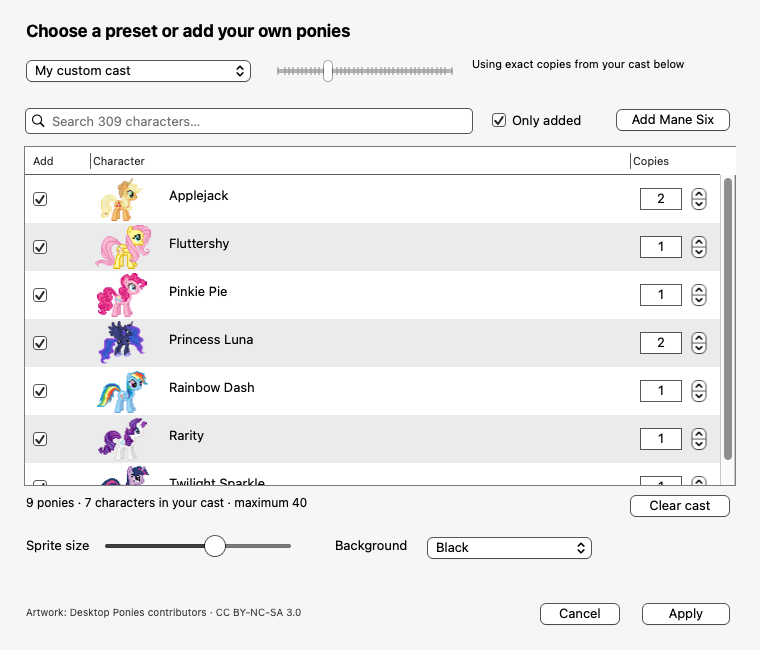
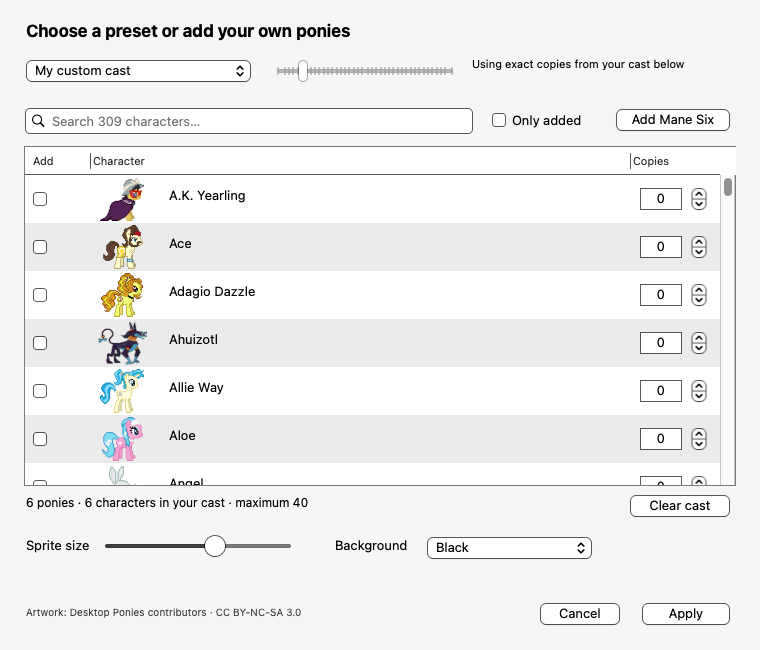
Disable character picker for presets and release notarized version 1.7

diff --git a/Installer/Resources/Welcome.html b/Installer/Resources/Welcome.html
@@ -1,1 +1,1 @@
-<!DOCTYPE html><html><head><meta charset="utf-8"><style>body { font: 13px -apple-system, Helvetica, sans-serif; color: #242424; padding: 12px; } h1 { font-size: 23px; } p, li { line-height: 1.5; }</style></head><body><h1>Desktop Ponies 1.6</h1><p>Bring animated ponies to your Mac’s screensaver.</p><ul><li>309 characters with a searchable cast picker</li><li>Mane Six preset: exactly six ponies, one of each character</li><li>Custom casts and random selections, with up to 40 ponies</li></ul><p>Installs for your account in <b>Library/Screen Savers</b>. Your saved cast, sprite size, and background settings are preserved.</p><p>Requires macOS 11 or later. Supports Apple Silicon and Intel Macs.</p><p>Artwork: Desktop Ponies contributors · CC BY-NC-SA 3.0 · Noncommercial use.</p></body></html>
+<!DOCTYPE html><html><head><meta charset="utf-8"><style>body { font: 13px -apple-system, Helvetica, sans-serif; color: #242424; padding: 12px; } h1 { font-size: 23px; } p, li { line-height: 1.5; }</style></head><body><h1>Desktop Ponies 1.7</h1><p>Bring animated ponies to your Mac’s screensaver.</p><ul><li>309 characters with a searchable cast picker</li><li>Mane Six preset: exactly six ponies, one of each character</li><li>Custom casts and random selections, with up to 40 ponies</li></ul><p>Installs for your account in <b>Library/Screen Savers</b>. Your saved cast, sprite size, and background settings are preserved.</p><p>Requires macOS 11 or later. Supports Apple Silicon and Intel Macs.</p><p>Artwork: Desktop Ponies contributors · CC BY-NC-SA 3.0 · Noncommercial use.</p></body></html>

diff --git a/Installer/Resources/Conclusion.html b/Installer/Resources/Conclusion.html
@@ -1,1 +1,1 @@
-<!DOCTYPE html><html><head><meta charset="utf-8"><style>body { font: 13px -apple-system, Helvetica, sans-serif; color: #242424; padding: 12px; } h1 { font-size: 23px; } p, li { line-height: 1.5; }</style></head><body><h1>Your ponies are ready</h1><ol><li>Open <b>System Settings → Screen Saver</b> (System Preferences on older macOS versions).</li><li>Select <b>Desktop Ponies 1.6</b>. If it is missing, close and reopen Settings.</li><li>Open <b>Options</b> to choose your cast, then click <b>Apply</b>.</li><li>Start the preview to enjoy your ponies.</li></ol><p>Older Desktop Ponies entries can remain installed. Select version 1.5 to use this update.</p><p>To uninstall, remove <b>Desktop Ponies 1.6.saver</b> from your account’s <b>Library/Screen Savers</b> folder.</p></body></html>
+<!DOCTYPE html><html><head><meta charset="utf-8"><style>body { font: 13px -apple-system, Helvetica, sans-serif; color: #242424; padding: 12px; } h1 { font-size: 23px; } p, li { line-height: 1.5; }</style></head><body><h1>Your ponies are ready</h1><ol><li>Open <b>System Settings → Screen Saver</b> (System Preferences on older macOS versions).</li><li>Select <b>Desktop Ponies 1.7</b>. If it is missing, close and reopen Settings.</li><li>Open <b>Options</b> to choose your cast, then click <b>Apply</b>.</li><li>Start the preview to enjoy your ponies.</li></ol><p>Older Desktop Ponies entries can remain installed. Select version 1.5 to use this update.</p><p>To uninstall, remove <b>Desktop Ponies 1.7.saver</b> from your account’s <b>Library/Screen Savers</b> folder.</p></body></html>

diff --git a/Source/PoniesView.m b/Source/PoniesView.m
@@ -2,7 +2,7 @@
 #import <ImageIO/ImageIO.h>
 
 static double RandomUnit(void) { return arc4random_uniform(1000000)/1000000.0; }
-@interface DP16Animation : NSObject
+@interface DP17Animation : NSObject
 @property NSArray<NSImage *> *frames;
 @property NSArray<NSNumber *> *ends;
 @property double duration;
@@ -10,7 +10,7 @@ static double RandomUnit(void) { return arc4random_uniform(1000000)/1000000.0; }
 - (instancetype)initWithPath:(NSString *)path;
 - (NSImage *)frameAt:(double)time once:(BOOL)once;
 @end
-@implementation DP16Animation
+@implementation DP17Animation
 - (instancetype)initWithPath:(NSString *)path {
     if (!(self=[super init])) return nil;
     CGImageSourceRef source=CGImageSourceCreateWithURL((__bridge CFURLRef)[NSURL fileURLWithPath:path],NULL);
@@ -34,42 +34,42 @@ static double RandomUnit(void) { return arc4random_uniform(1000000)/1000000.0; }
 }
 @end
 // Anchors in pony.ini are measured from the image's top-left corner.
-static NSPoint DPImageCenter(DP16Animation *animation, NSArray *center) {
+static NSPoint DPImageCenter(DP17Animation *animation, NSArray *center) {
     double x=[center[0] doubleValue], y=[center[1] doubleValue];
     if (x==0 && y==0) return NSMakePoint(animation.size.width/2,animation.size.height/2);
     return NSMakePoint(x,y);
 }
 
-@interface DP16Actor : NSObject
+@interface DP17Actor : NSObject
 @property NSDictionary *pony, *behavior;
-@property DP16Animation *right, *left;
+@property DP17Animation *right, *left;
 @property double x,y,vx,vy,remaining,elapsed,edgeDwell;
 @property BOOL facingRight;
 @end
-@implementation DP16Actor @end
+@implementation DP17Actor @end
 
-@interface DP16OptionsContentView : NSView
+@interface DP17OptionsContentView : NSView
 @end
-@implementation DP16OptionsContentView
+@implementation DP17OptionsContentView
 - (void)drawRect:(NSRect)dirty { [NSColor.windowBackgroundColor setFill]; NSRectFill(self.bounds); [super drawRect:dirty]; }
 @end
 
-@interface DP16PickerButton : NSButton
+@interface DP17PickerButton : NSButton
 @property NSString *ponyID;
 @end
-@implementation DP16PickerButton @end
-@interface DP16PickerStepper : NSStepper
+@implementation DP17PickerButton @end
+@interface DP17PickerStepper : NSStepper
 @property NSString *ponyID;
 @end
-@implementation DP16PickerStepper @end
-@interface DP16QuantityField : NSTextField
+@implementation DP17PickerStepper @end
+@interface DP17QuantityField : NSTextField
 @property NSString *ponyID;
 @end
-@implementation DP16QuantityField @end
+@implementation DP17QuantityField @end
 
-@interface DesktopPoniesView16 : ScreenSaverView <NSTableViewDataSource, NSTableViewDelegate, NSTextFieldDelegate, NSSearchFieldDelegate>
+@interface DesktopPoniesView17 : ScreenSaverView <NSTableViewDataSource, NSTableViewDelegate, NSTextFieldDelegate, NSSearchFieldDelegate>
 @property NSArray *catalog;
-@property NSMutableArray<DP16Actor *> *actors;
+@property NSMutableArray<DP17Actor *> *actors;
 @property NSCache *images;
 @property ScreenSaverDefaults *settings;
 @property NSString *resourceRoot;
@@ -82,12 +82,12 @@ static NSPoint DPImageCenter(DP16Animation *animation, NSArray *center) {
 @property NSArray *filteredCatalog;
 @property NSTableView *pickerTable;
 @property NSSearchField *searchField;
-@property NSButton *onlyAdded, *applyButton;
+@property NSButton *onlyAdded, *applyButton, *maneSixButton, *clearCastButton;
 @property NSTextField *summaryLabel, *randomLabel, *emptyLabel;
 @property NSCache *thumbnails;
 - (void)repopulate;
 @end
-@implementation DesktopPoniesView16
+@implementation DesktopPoniesView17
 - (instancetype)initWithFrame:(NSRect)frame isPreview:(BOOL)preview {
     if (!(self=[super initWithFrame:frame isPreview:preview])) return nil;
     self.animationTimeInterval=1.0/30.0;
@@ -104,18 +104,18 @@ static NSPoint DPImageCenter(DP16Animation *animation, NSArray *center) {
 - (double)spriteScale {
     return MAX(.2,MIN(3.0,[self.settings doubleForKey:@"scale"])) * (self.isPreview ? MAX(.15,MIN(1.0,NSWidth(self.bounds)/1440.0)) : 1.0);
 }
-- (DP16Animation *)image:(NSString *)relative {
-    DP16Animation *a=[self.images objectForKey:relative];
-    if (!a) { a=[[DP16Animation alloc] initWithPath:[self.resourceRoot stringByAppendingPathComponent:relative]]; if (a) [self.images setObject:a forKey:relative]; }
+- (DP17Animation *)image:(NSString *)relative {
+    DP17Animation *a=[self.images objectForKey:relative];
+    if (!a) { a=[[DP17Animation alloc] initWithPath:[self.resourceRoot stringByAppendingPathComponent:relative]]; if (a) [self.images setObject:a forKey:relative]; }
     return a;
 }
-- (void)chooseBehavior:(DP16Actor *)p {
+- (void)chooseBehavior:(DP17Actor *)p {
     NSArray *bs=p.pony[@"behaviors"]; double total=0; for (NSDictionary *b in bs) total+=[b[@"weight"] doubleValue];
     double pick=RandomUnit()*total; NSDictionary *chosen=bs.lastObject;
     for (NSDictionary *b in bs) { pick-=[b[@"weight"] doubleValue]; if (pick<=0) { chosen=b; break; } }
     [self beginBehavior:chosen actor:p];
 }
-- (void)beginBehavior:(NSDictionary *)chosen actor:(DP16Actor *)p {
+- (void)beginBehavior:(NSDictionary *)chosen actor:(DP17Actor *)p {
     p.behavior=chosen; p.right=[self image:chosen[@"right"]]; p.left=[self image:chosen[@"left"]];
     p.elapsed=0; p.remaining=[chosen[@"min"] doubleValue]+RandomUnit()*MAX(0,[chosen[@"max"] doubleValue]-[chosen[@"min"] doubleValue]);
     p.facingRight=RandomUnit()>.5;
@@ -131,7 +131,7 @@ static NSPoint DPImageCenter(DP16Animation *animation, NSArray *center) {
     if (fabs(p.vx)<1e-8) p.vx=0;
     if (fabs(p.vy)<1e-8) p.vy=0;
 }
-- (void)releaseActor:(DP16Actor *)p directionX:(NSInteger)dx directionY:(NSInteger)dy {
+- (void)releaseActor:(DP17Actor *)p directionX:(NSInteger)dx directionY:(NSInteger)dy {
     NSMutableArray *candidates=[NSMutableArray array]; double total=0;
     for (NSDictionary *b in p.pony[@"behaviors"]) {
         NSString *mode=b[@"mode"];
@@ -180,7 +180,7 @@ static NSPoint DPImageCenter(DP16Animation *animation, NSArray *center) {
         }
     }
     for (NSDictionary *pony in cast) {
-        DP16Actor *p=[DP16Actor new]; p.pony=pony;
+        DP17Actor *p=[DP17Actor new]; p.pony=pony;
         p.x=NSWidth(self.bounds)*(.1+RandomUnit()*.8); p.y=NSHeight(self.bounds)*(.1+RandomUnit()*.8); [self chooseBehavior:p]; [self.actors addObject:p];
     }
     self.loadedSettings=[self settingsSnapshot];
@@ -207,7 +207,7 @@ static NSPoint DPImageCenter(DP16Animation *animation, NSArray *center) {
     if (now-self.lastSettingsCheck>=1) [self reloadSettings:NO];
     double dt=self.lastTick ? MIN(.1,MAX(0,now-self.lastTick)) : self.animationTimeInterval; self.lastTick=now;
     double scale=[self spriteScale];
-    for (DP16Actor *p in self.actors) {
+    for (DP17Actor *p in self.actors) {
         p.elapsed+=dt; p.remaining-=dt; if (p.remaining<=0) [self chooseBehavior:p];
         p.x+=p.vx*dt*scale; p.y+=p.vy*dt*scale;
         // Use the union of both facing poses so turning does not move the wall.
@@ -253,9 +253,9 @@ static NSPoint DPImageCenter(DP16Animation *animation, NSArray *center) {
     }
     [NSGraphicsContext currentContext].imageInterpolation=NSImageInterpolationNone;
     double scale=[self spriteScale];
-    NSArray *sorted=[self.actors sortedArrayUsingComparator:^NSComparisonResult(DP16Actor *a, DP16Actor *b) { return a.y>b.y?NSOrderedAscending:(a.y<b.y?NSOrderedDescending:NSOrderedSame); }];
-    for (DP16Actor *p in sorted) {
-        DP16Animation *a=p.facingRight?p.right:p.left; if (!a) continue;
+    NSArray *sorted=[self.actors sortedArrayUsingComparator:^NSComparisonResult(DP17Actor *a, DP17Actor *b) { return a.y>b.y?NSOrderedAscending:(a.y<b.y?NSOrderedDescending:NSOrderedSame); }];
+    for (DP17Actor *p in sorted) {
+        DP17Animation *a=p.facingRight?p.right:p.left; if (!a) continue;
         NSPoint center=DPImageCenter(a,p.behavior[p.facingRight?@"rc":@"lc"]);
         NSRect rect=NSMakeRect(p.x-center.x*scale,p.y-(a.size.height-center.y)*scale,a.size.width*scale,a.size.height*scale);
         [[a frameAt:p.elapsed once:[p.behavior[@"once"] boolValue]] drawInRect:rect fromRect:NSZeroRect operation:NSCompositingOperationSourceOver fraction:1 respectFlipped:NO hints:nil];
@@ -272,13 +272,19 @@ static NSPoint DPImageCenter(DP16Animation *animation, NSArray *center) {
         BOOL matches=!query.length || [p[@"id"] rangeOfString:query options:NSCaseInsensitiveSearch|NSDiacriticInsensitiveSearch].location!=NSNotFound || [p[@"name"] rangeOfString:query options:NSCaseInsensitiveSearch|NSDiacriticInsensitiveSearch].location!=NSNotFound;
         return matches && (self.onlyAdded.state!=NSControlStateValueOn || [self.draftCounts[p[@"id"]] integerValue]>0);
     }]];
-    [self.pickerTable reloadData];
     BOOL custom=self.castPopup.indexOfSelectedItem==2;
+    self.pickerTable.enabled=custom;
+    self.pickerTable.alphaValue=custom?1.0:0.45;
+    self.searchField.enabled=custom;
+    self.onlyAdded.enabled=custom;
+    self.maneSixButton.enabled=custom;
+    self.clearCastButton.enabled=custom;
+    [self.pickerTable reloadData];
     BOOL mane=self.castPopup.indexOfSelectedItem==0;
     if (mane) self.countSlider.doubleValue=6;
     self.countSlider.enabled=self.castPopup.indexOfSelectedItem==1;
     NSInteger total=[self draftTotal];
-    self.summaryLabel.stringValue=[NSString stringWithFormat:@"%ld ponies · %lu characters in your cast · maximum 40",(long)total,(unsigned long)self.draftCounts.count];
+    self.summaryLabel.stringValue=custom?[NSString stringWithFormat:@"%ld ponies · %lu characters in your cast · maximum 40",(long)total,(unsigned long)self.draftCounts.count]:@"Choose My custom cast to edit individual characters. Your cast is saved.";
     self.randomLabel.stringValue=mane?@"6 ponies · one of each Mane Six character":custom?@"Using exact copies from your cast below":[NSString stringWithFormat:@"%ld ponies chosen from this preset",(long)llround(self.countSlider.doubleValue)];
     self.applyButton.enabled=!custom || total>0;
     self.emptyLabel.hidden=self.filteredCatalog.count>0;
@@ -296,8 +302,9 @@ static NSPoint DPImageCenter(DP16Animation *animation, NSArray *center) {
 - (NSInteger)numberOfRowsInTableView:(NSTableView *)tableView { return self.filteredCatalog.count; }
 - (NSView *)tableView:(NSTableView *)tableView viewForTableColumn:(NSTableColumn *)column row:(NSInteger)row {
     NSDictionary *pony=self.filteredCatalog[row]; NSString *identifier=pony[@"id"]; NSInteger quantity=[self.draftCounts[identifier] integerValue];
+    BOOL custom=self.castPopup.indexOfSelectedItem==2;
     if ([column.identifier isEqual:@"add"]) {
-        DP16PickerButton *check=[[DP16PickerButton alloc] initWithFrame:NSMakeRect(0,0,60,48)]; check.title=@""; check.buttonType=NSButtonTypeSwitch; check.state=quantity>0?NSControlStateValueOn:NSControlStateValueOff; check.ponyID=identifier; check.target=self; check.action=@selector(togglePony:); [check setAccessibilityLabel:[@"Add " stringByAppendingString:identifier]]; return check;
+        DP17PickerButton *check=[[DP17PickerButton alloc] initWithFrame:NSMakeRect(0,0,60,48)]; check.title=@""; check.buttonType=NSButtonTypeSwitch; check.state=quantity>0?NSControlStateValueOn:NSControlStateValueOff; check.enabled=custom; check.ponyID=identifier; check.target=self; check.action=@selector(togglePony:); [check setAccessibilityLabel:[@"Add " stringByAppendingString:identifier]]; return check;
     }
     if ([column.identifier isEqual:@"pony"]) {
         NSTableCellView *cell=[[NSTableCellView alloc] initWithFrame:NSMakeRect(0,0,column.width,48)];
@@ -305,9 +312,9 @@ static NSPoint DPImageCenter(DP16Animation *animation, NSArray *center) {
         NSTextField *name=[NSTextField labelWithString:identifier]; name.frame=NSMakeRect(76,14,column.width-82,22); name.font=[NSFont systemFontOfSize:13]; name.lineBreakMode=NSLineBreakByTruncatingTail; name.toolTip=identifier; cell.textField=name; [cell addSubview:name]; return cell;
     }
     NSView *cell=[[NSView alloc] initWithFrame:NSMakeRect(0,0,column.width,48)];
-    DP16QuantityField *field=[[DP16QuantityField alloc] initWithFrame:NSMakeRect(8,12,44,24)]; field.ponyID=identifier; field.integerValue=quantity; field.alignment=NSTextAlignmentCenter; field.delegate=self;
+    DP17QuantityField *field=[[DP17QuantityField alloc] initWithFrame:NSMakeRect(8,12,44,24)]; field.enabled=custom; field.ponyID=identifier; field.integerValue=quantity; field.alignment=NSTextAlignmentCenter; field.delegate=self;
     NSNumberFormatter *formatter=[NSNumberFormatter new]; formatter.numberStyle=NSNumberFormatterDecimalStyle; formatter.allowsFloats=NO; formatter.minimum=@0; formatter.maximum=@40; field.formatter=formatter; [field setAccessibilityLabel:[@"Copies of " stringByAppendingString:identifier]]; [cell addSubview:field];
-    DP16PickerStepper *stepper=[[DP16PickerStepper alloc] initWithFrame:NSMakeRect(58,10,20,28)]; stepper.ponyID=identifier; stepper.minValue=0; stepper.maxValue=40; stepper.integerValue=quantity; stepper.valueWraps=NO; stepper.target=self; stepper.action=@selector(stepQuantity:); [stepper setAccessibilityLabel:[@"Copies of " stringByAppendingString:identifier]]; [cell addSubview:stepper]; return cell;
+    DP17PickerStepper *stepper=[[DP17PickerStepper alloc] initWithFrame:NSMakeRect(58,10,20,28)]; stepper.enabled=custom; stepper.ponyID=identifier; stepper.minValue=0; stepper.maxValue=40; stepper.integerValue=quantity; stepper.valueWraps=NO; stepper.target=self; stepper.action=@selector(stepQuantity:); [stepper setAccessibilityLabel:[@"Copies of " stringByAppendingString:identifier]]; [cell addSubview:stepper]; return cell;
 }
 - (void)setQuantity:(NSInteger)quantity forPony:(NSString *)identifier {
     // Count limits apply across the entire cast, including characters hidden by search.
@@ -318,10 +325,10 @@ static NSPoint DPImageCenter(DP16Animation *animation, NSArray *center) {
     [self.castPopup selectItemAtIndex:2]; [self refreshPicker];
     if (quantity>allowed) self.summaryLabel.stringValue=@"Cast limit reached: 40 ponies. Remove a copy before adding more.";
 }
-- (void)togglePony:(DP16PickerButton *)sender { [self.sheet makeFirstResponder:nil]; [self setQuantity:sender.state==NSControlStateValueOn?1:0 forPony:sender.ponyID]; }
-- (void)stepQuantity:(DP16PickerStepper *)sender { [self.sheet makeFirstResponder:nil]; [self setQuantity:sender.integerValue forPony:sender.ponyID]; }
+- (void)togglePony:(DP17PickerButton *)sender { if (self.castPopup.indexOfSelectedItem!=2) return; [self.sheet makeFirstResponder:nil]; [self setQuantity:sender.state==NSControlStateValueOn?1:0 forPony:sender.ponyID]; }
+- (void)stepQuantity:(DP17PickerStepper *)sender { if (self.castPopup.indexOfSelectedItem!=2) return; [self.sheet makeFirstResponder:nil]; [self setQuantity:sender.integerValue forPony:sender.ponyID]; }
 - (void)controlTextDidEndEditing:(NSNotification *)notification {
-    if ([notification.object isKindOfClass:DP16QuantityField.class]) { DP16QuantityField *field=notification.object; [self setQuantity:field.integerValue forPony:field.ponyID]; }
+    if (self.castPopup.indexOfSelectedItem==2 && [notification.object isKindOfClass:DP17QuantityField.class]) { DP17QuantityField *field=notification.object; [self setQuantity:field.integerValue forPony:field.ponyID]; }
 }
 - (void)controlTextDidChange:(NSNotification *)notification { if (notification.object==self.searchField) [self refreshPicker]; }
 - (void)pickerFilterChanged:(id)sender { [self.sheet makeFirstResponder:nil]; [self refreshPicker]; }
@@ -342,14 +349,14 @@ static NSPoint DPImageCenter(DP16Animation *animation, NSArray *center) {
 - (NSWindow *)configureSheet {
     [self.settings synchronize];
     if (!self.sheet) {
-        self.sheet=[[NSWindow alloc] initWithContentRect:NSMakeRect(0,0,760,650) styleMask:NSWindowStyleMaskTitled backing:NSBackingStoreBuffered defer:NO]; self.sheet.title=@"Desktop Ponies 1.6 — Build your cast"; self.sheet.contentView=[[DP16OptionsContentView alloc] initWithFrame:NSMakeRect(0,0,760,650)];
+        self.sheet=[[NSWindow alloc] initWithContentRect:NSMakeRect(0,0,760,650) styleMask:NSWindowStyleMaskTitled backing:NSBackingStoreBuffered defer:NO]; self.sheet.title=@"Desktop Ponies 1.7 — Build your cast"; self.sheet.contentView=[[DP17OptionsContentView alloc] initWithFrame:NSMakeRect(0,0,760,650)];
         [self label:@"Choose a preset or add your own ponies" frame:NSMakeRect(24,605,710,24)].font=[NSFont boldSystemFontOfSize:17];
         self.castPopup=[[NSPopUpButton alloc] initWithFrame:NSMakeRect(24,563,230,28) pullsDown:NO]; [self.castPopup addItemsWithTitles:@[@"Mane Six preset",@"Random from all characters",@"My custom cast"]]; self.castPopup.target=self; self.castPopup.action=@selector(pickerFilterChanged:);
         self.countSlider=[NSSlider sliderWithValue:6 minValue:1 maxValue:40 target:self action:@selector(pickerFilterChanged:)]; self.countSlider.frame=NSMakeRect(275,565,180,24); self.countSlider.numberOfTickMarks=40; self.countSlider.allowsTickMarkValuesOnly=YES;
         self.randomLabel=[self label:@"" frame:NSMakeRect(470,561,266,32)]; self.randomLabel.font=[NSFont systemFontOfSize:11]; self.randomLabel.maximumNumberOfLines=2;
         self.searchField=[[NSSearchField alloc] initWithFrame:NSMakeRect(24,515,450,28)]; self.searchField.placeholderString=[NSString stringWithFormat:@"Search %lu characters…",(unsigned long)self.catalog.count]; self.searchField.delegate=self; [self.searchField setAccessibilityLabel:@"Search characters"];
         self.onlyAdded=[NSButton checkboxWithTitle:@"Only added" target:self action:@selector(pickerFilterChanged:)]; self.onlyAdded.frame=NSMakeRect(490,518,115,24);
-        NSButton *mane=[NSButton buttonWithTitle:@"Add Mane Six" target:self action:@selector(maneSixCast:)]; mane.frame=NSMakeRect(610,514,126,30); mane.toolTip=@"Add any missing Mane Six characters while keeping your existing cast.";
+        NSButton *mane=[NSButton buttonWithTitle:@"Add Mane Six" target:self action:@selector(maneSixCast:)]; self.maneSixButton=mane; mane.frame=NSMakeRect(610,514,126,30); mane.toolTip=@"Add any missing Mane Six characters while keeping your existing cast.";
         NSScrollView *scroll=[[NSScrollView alloc] initWithFrame:NSMakeRect(24,164,712,340)]; scroll.borderType=NSBezelBorder; scroll.hasVerticalScroller=YES; scroll.autohidesScrollers=YES;
         self.pickerTable=[[NSTableView alloc] initWithFrame:scroll.bounds]; self.pickerTable.rowHeight=48; self.pickerTable.intercellSpacing=NSMakeSize(0,0); self.pickerTable.usesAlternatingRowBackgroundColors=YES; self.pickerTable.allowsColumnReordering=NO; self.pickerTable.selectionHighlightStyle=NSTableViewSelectionHighlightStyleNone; self.pickerTable.dataSource=self; self.pickerTable.delegate=self;
         NSArray *ids=@[@"add",@"pony",@"copies"], *titles=@[@"Add",@"Character",@"Copies"], *widths=@[@60,@540,@94];
@@ -357,7 +364,7 @@ static NSPoint DPImageCenter(DP16Animation *animation, NSArray *center) {
         scroll.documentView=self.pickerTable; [self.sheet.contentView addSubview:scroll];
         self.emptyLabel=[self label:@"" frame:NSMakeRect(85,300,590,30)]; self.emptyLabel.alignment=NSTextAlignmentCenter; self.emptyLabel.textColor=NSColor.secondaryLabelColor;
         self.summaryLabel=[self label:@"" frame:NSMakeRect(24,131,568,24)]; self.summaryLabel.font=[NSFont systemFontOfSize:12];
-        NSButton *clear=[NSButton buttonWithTitle:@"Clear cast" target:self action:@selector(clearCast:)]; clear.frame=NSMakeRect(624,129,112,28);
+        NSButton *clear=[NSButton buttonWithTitle:@"Clear cast" target:self action:@selector(clearCast:)]; self.clearCastButton=clear; clear.frame=NSMakeRect(624,129,112,28);
         [self label:@"Sprite size" frame:NSMakeRect(24,89,76,24)]; self.sizeSlider=[NSSlider sliderWithValue:2 minValue:.5 maxValue:3 target:nil action:nil]; self.sizeSlider.frame=NSMakeRect(103,90,190,24);
         [self label:@"Background" frame:NSMakeRect(333,89,90,24)]; self.backgroundPopup=[[NSPopUpButton alloc] initWithFrame:NSMakeRect(425,86,170,28) pullsDown:NO]; [self.backgroundPopup addItemsWithTitles:@[@"Black",@"Twilight",@"Daylight"]];
         NSTextField *credit=[self label:@"Artwork: Desktop Ponies contributors · CC BY-NC-SA 3.0" frame:NSMakeRect(24,24,480,20)]; credit.font=[NSFont systemFontOfSize:10]; credit.textColor=NSColor.secondaryLabelColor;
@@ -369,7 +376,7 @@ static NSPoint DPImageCenter(DP16Animation *animation, NSArray *center) {
     // Each presentation starts from saved values; Cancel discards the previous draft.
     self.draftCounts=[NSMutableDictionary dictionary]; NSDictionary *saved=[self.settings dictionaryForKey:@"customCounts"];
     for (NSDictionary *p in self.catalog) { NSInteger n=MAX(0,MIN(40,[saved[p[@"id"]] integerValue])); n=MIN(n,40-[self draftTotal]); if (n) self.draftCounts[p[@"id"]]=@(n); }
-    if (!saved) for (DP16Actor *a in self.actors) self.draftCounts[a.pony[@"id"]]=@([self.draftCounts[a.pony[@"id"]] integerValue]+1);
+    if (!saved) for (DP17Actor *a in self.actors) self.draftCounts[a.pony[@"id"]]=@([self.draftCounts[a.pony[@"id"]] integerValue]+1);
     [self.castPopup selectItemAtIndex:MAX(0,MIN(2,[self.settings integerForKey:@"cast"]))];
     self.countSlider.doubleValue=MAX(1,MIN(40,[self.settings integerForKey:@"count"])); self.sizeSlider.doubleValue=[self.settings doubleForKey:@"scale"];
     [self.backgroundPopup selectItemAtIndex:MAX(0,MIN(2,[self.settings integerForKey:@"background"]))]; self.searchField.stringValue=@""; self.onlyAdded.state=NSControlStateValueOff; [self refreshPicker]; return self.sheet;

diff --git a/Source/Installer.m b/Source/Installer.m
@@ -1,5 +1,5 @@
 #import <Cocoa/Cocoa.h>
-static NSString * const SaverName=@"Desktop Ponies 1.6.saver";
+static NSString * const SaverName=@"Desktop Ponies 1.7.saver";
 static BOOL InstallSaver(NSString *source, NSString *directory, NSError **error) {
     NSFileManager *fm=NSFileManager.defaultManager;
     if (![fm createDirectoryAtPath:directory withIntermediateDirectories:YES attributes:nil error:error]) return NO;
@@ -24,8 +24,8 @@ static BOOL InstallSaver(NSString *source, NSString *directory, NSError **error)
 @implementation InstallerDelegate
 - (void)applicationDidFinishLaunching:(NSNotification *)notification {
     self.window=[[NSWindow alloc] initWithContentRect:NSMakeRect(0,0,580,350) styleMask:NSWindowStyleMaskTitled|NSWindowStyleMaskClosable backing:NSBackingStoreBuffered defer:NO];
-    self.window.title=@"Install Desktop Ponies 1.6";
-    NSTextField *heading=[NSTextField labelWithString:@"Desktop Ponies 1.6"];
+    self.window.title=@"Install Desktop Ponies 1.7";
+    NSTextField *heading=[NSTextField labelWithString:@"Desktop Ponies 1.7"];
     heading.font=[NSFont boldSystemFontOfSize:25]; heading.frame=NSMakeRect(30,282,520,40); [self.window.contentView addSubview:heading];
     NSTextField *description=[NSTextField wrappingLabelWithString:@"Install animated ponies as your Mac’s screensaver.\n\n309 characters · searchable cast picker · exact Mane Six preset\n\nInstalls for your account in Library/Screen Savers. Your saved pony choices, size, and background settings are preserved."];
     description.font=[NSFont systemFontOfSize:14]; description.frame=NSMakeRect(30,115,520,165); [self.window.contentView addSubview:description];
@@ -46,7 +46,7 @@ static BOOL InstallSaver(NSString *source, NSString *directory, NSError **error)
         self.installButton.enabled=YES;
         NSAlert *alert=[NSAlert new];alert.messageText=@"The screensaver could not be installed";alert.informativeText=error.localizedDescription?:@"Please try again.";[alert runModal];return;
     }
-    self.status.stringValue=@"Installed successfully. In Screen Saver settings, select Desktop Ponies 1.6, then open Options to choose your ponies.";
+    self.status.stringValue=@"Installed successfully. In Screen Saver settings, select Desktop Ponies 1.7, then open Options to choose your ponies.";
     self.installButton.title=@"Open Screen Saver Settings";self.installButton.action=@selector(openSettings:);self.installButton.enabled=YES;
 }
 - (void)openSettings:(id)sender { [NSWorkspace.sharedWorkspace openURL:[NSURL URLWithString:@"x-apple.systempreferences:com.apple.ScreenSaver-Settings.extension"]]; }

diff --git a/Source/RainbowVerify.m b/Source/RainbowVerify.m
@@ -27,7 +27,7 @@ int main(int argc,char **argv) { @autoreleasepool {
      for (NSInteger side=0;side<4;side++) {
          if (!idle && [mode isEqual:@"vertical_only"] && side>=2) continue;
          if (!idle && [mode isEqual:@"horizontal_only"] && side<2) continue;
-         id actor=NSClassFromString(@"DPActor") ? [NSClassFromString(@"DPActor") new] : [NSClassFromString(@"DP16Actor") new];
+         id actor=NSClassFromString(@"DPActor") ? [NSClassFromString(@"DPActor") new] : [NSClassFromString(@"DP17Actor") new];
          [actor setValue:pony forKey:@"pony"]; [actor setValue:behavior forKey:@"behavior"]; [actor setValue:[view image:behavior[@"right"]] forKey:@"right"]; [actor setValue:[view image:behavior[@"left"]] forKey:@"left"];
          Put(actor,@"remaining",1000); [actor setValue:@YES forKey:@"facingRight"];
          NSRect bounds=Bounds(actor,viewport,2); double x=viewport.width/2,y=viewport.height/2;
@@ -43,7 +43,7 @@ int main(int argc,char **argv) { @autoreleasepool {
  NSDictionary *zoom=nil; for (NSDictionary *b in pony[@"behaviors"]) if ([b[@"name"] isEqual:@"flyzoom"]) zoom=b;
  for (NSNumber *scale in @[@1,@2,@3]) for (NSNumber *width in @[@800,@1440,@2560]) {
      [settings setDouble:scale.doubleValue forKey:@"scale"]; viewport=NSMakeSize(width.doubleValue,900); [view setFrameSize:viewport]; [view performSelector:@selector(repopulate)];
-     id actor=NSClassFromString(@"DPActor") ? [NSClassFromString(@"DPActor") new] : [NSClassFromString(@"DP16Actor") new];
+     id actor=NSClassFromString(@"DPActor") ? [NSClassFromString(@"DPActor") new] : [NSClassFromString(@"DP17Actor") new];
      [actor setValue:pony forKey:@"pony"]; [actor setValue:zoom forKey:@"behavior"]; [actor setValue:[view image:zoom[@"right"]] forKey:@"right"]; [actor setValue:[view image:zoom[@"left"]] forKey:@"left"]; Put(actor,@"remaining",1000);
      NSRect bounds=Bounds(actor,viewport,scale.doubleValue); Put(actor,@"x",NSMaxX(bounds)-.1); Put(actor,@"y",450); Put(actor,@"vx",2000.0/3); [actor setValue:@YES forKey:@"facingRight"]; [view setValue:[NSMutableArray arrayWithObject:actor] forKey:@"actors"];
      BOOL facing=YES; int lastFlip=-1000; double travel=NSWidth(bounds); double crossingTime=travel/(scale.doubleValue*2000.0/3);

diff --git a/Source/Verify.m b/Source/Verify.m
@@ -58,6 +58,26 @@ int main(int argc,const char **argv) { @autoreleasepool {
     NSTextField *quantity=nil; for (NSView *subview in cell.subviews) if ([subview isKindOfClass:NSTextField.class]) quantity=(id)subview;
     quantity.integerValue=4; [picker controlTextDidEndEditing:[NSNotification notificationWithName:NSControlTextDidEndEditingNotification object:quantity]];
     if ([picker draftTotal]!=6) return 14;
+    // Presets disable every character-editing control, including newly created cells.
+    NSPopUpButton *modePopup=[picker valueForKey:@"castPopup"];
+    NSDictionary *keptCounts=[[picker valueForKey:@"draftCounts"] copy];
+    for (NSNumber *mode in @[@0,@1,@2,@0,@2]) {
+        BOOL custom=mode.integerValue==2;
+        [modePopup selectItemAtIndex:mode.integerValue]; [picker refreshPicker];
+        for (NSString *key in @[@"pickerTable",@"searchField",@"onlyAdded",@"maneSixButton",@"clearCastButton"])
+            if ([[picker valueForKey:key] isEnabled]!=custom) return 30;
+        if ((table.alphaValue==1.0)!=custom) return 31;
+        NSControl *check=(id)[delegate tableView:table viewForTableColumn:table.tableColumns.firstObject row:0];
+        NSView *copies=[delegate tableView:table viewForTableColumn:table.tableColumns.lastObject row:0];
+        if (check.enabled!=custom) return 32;
+        for (NSControl *control in copies.subviews) if (control.enabled!=custom) return 33;
+        if (![[picker valueForKey:@"draftCounts"] isEqual:keptCounts]) return 34;
+        if (!custom) {
+            quantity.integerValue=19;
+            [picker controlTextDidEndEditing:[NSNotification notificationWithName:NSControlTextDidEndEditingNotification object:quantity]];
+            if (modePopup.indexOfSelectedItem!=mode.integerValue || ![[picker valueForKey:@"draftCounts"] isEqual:keptCounts]) return 35;
+        }
+    }
     [picker saveOptions:nil];
     ScreenSaverView *restored=[[[bundle principalClass] alloc] initWithFrame:NSMakeRect(0,0,1440,900) isPreview:NO];
     [restored setValue:testSettings forKey:@"settings"]; [restored repopulate];

diff --git a/Source/EdgeVerify.m b/Source/EdgeVerify.m
@@ -6,8 +6,8 @@ static double Get(id object, NSString *key) { return [[object valueForKey:key] d
 // Use the real animation loop, with a fixed 50 ms step and no behavior change.
 static void Tick(ScreenSaverView *view) { Put(view,@"lastTick",NSProcessInfo.processInfo.systemUptime-.05); [view animateOneFrame]; }
 static id Actor(NSSize rightSize, NSSize leftSize, NSArray *rightCenter, NSArray *leftCenter) {
-    id actor=[NSClassFromString(@"DP16Actor") new];
-    id right=[NSClassFromString(@"DP16Animation") new], left=[NSClassFromString(@"DP16Animation") new];
+    id actor=[NSClassFromString(@"DP17Actor") new];
+    id right=[NSClassFromString(@"DP17Animation") new], left=[NSClassFromString(@"DP17Animation") new];
     [right setValue:[NSValue valueWithSize:rightSize] forKey:@"size"]; [left setValue:[NSValue valueWithSize:leftSize] forKey:@"size"];
     [actor setValue:right forKey:@"right"]; [actor setValue:left forKey:@"left"];
     [actor setValue:@{@"rc":rightCenter,@"lc":leftCenter} forKey:@"behavior"]; Put(actor,@"remaining",10000); return actor;

diff --git a/Source/Preview.m b/Source/Preview.m
@@ -7,7 +7,7 @@
 @end
 @implementation PreviewDelegate
 - (void)applicationDidFinishLaunching:(NSNotification *)note {
-    NSString *path=[NSBundle.mainBundle.bundlePath.stringByDeletingLastPathComponent stringByAppendingPathComponent:@"Desktop Ponies 1.6.saver"];
+    NSString *path=[NSBundle.mainBundle.bundlePath.stringByDeletingLastPathComponent stringByAppendingPathComponent:@"Desktop Ponies 1.7.saver"];
     NSBundle *bundle=[NSBundle bundleWithPath:path]; NSError *error=nil;
     if (![bundle loadAndReturnError:&error]) { NSLog(@"%@",error); [NSApp terminate:nil]; return; }
     self.window=[[NSWindow alloc] initWithContentRect:NSMakeRect(0,0,1100,700) styleMask:NSWindowStyleMaskTitled|NSWindowStyleMaskClosable|NSWindowStyleMaskResizable|NSWindowStyleMaskMiniaturizable backing:NSBackingStoreBuffered defer:NO];

diff --git a/README.md b/README.md
@@ -4,17 +4,25 @@ A native macOS screensaver adaptation of [Desktop Ponies](https://github.com/Roo
 
 ![Desktop Ponies preview](Preview.png)
 
-Version **1.6** supports macOS 11 or later on Apple Silicon and Intel. The Mane Six preset shows exactly one of each character. Custom casts and random selections support up to 40 ponies. Options changes are reloaded by full-screen instances.
+Version **1.7** supports macOS 11 or later on Apple Silicon and Intel. The Mane Six preset shows exactly one of each character. Custom casts and random selections support up to 40 ponies. Options changes are reloaded by full-screen instances. Character selection, copy counts, search, and cast editing buttons are grayed out for presets and enabled for My custom cast. Switching modes preserves your custom selections.
 
 ## Download
 
-Download the [Apple-notarized version 1.6 installer](https://github.com/ryogatwo/desktop-ponies-macos/releases/tag/v1.6). The installer app and disk image are Developer ID signed, accepted by Apple's notarization service, and have stapled approval tickets. SHA-256 checksums are included with the release.
+Download the [Apple-notarized version 1.7 installer](https://github.com/ryogatwo/desktop-ponies-macos/releases/tag/v1.7). The installer app and disk image are Developer ID signed, accepted by Apple's notarization service, and have stapled approval tickets. SHA-256 checksums are included with the release.
 
 ## Install
 
-The release disk image contains **Install Desktop Ponies 1.6.app**. Open the app and click **Install Screensaver**. It installs only for your account in `~/Library/Screen Savers` and preserves your saved settings. Click **Open Screen Saver Settings**, select **Desktop Ponies 1.6**, and open Options to choose your cast.
+The release disk image contains **Install Desktop Ponies 1.7.app**. Open the app and click **Install Screensaver**. It installs only for your account in `~/Library/Screen Savers` and preserves your saved settings. Click **Open Screen Saver Settings**, select **Desktop Ponies 1.7**, and open Options to choose your cast.
 
-Older versions may remain installed. Select 1.6 to use this release. To uninstall, remove `Desktop Ponies 1.6.saver` from your account's Screen Savers folder.
+Older versions may remain installed. Select 1.7 to use this release. To uninstall, remove `Desktop Ponies 1.7.saver` from your account's Screen Savers folder.
+
+## Picker modes
+
+The character picker is disabled for presets and enabled for My custom cast. Your custom selections are kept when switching modes.
+
+![Preset picker disabled](Picker-Preset.png)
+
+![Custom picker enabled](Picker.png)
 
 ## Build
 
@@ -33,9 +41,9 @@ An optional conventional `.pkg` installer can be built with `bash build-installe
 
 ```sh
 xcrun clang -fobjc-arc -O1 -framework Cocoa -framework ScreenSaver -framework ImageIO Source/Verify.m -o /tmp/ponies-verify
-/tmp/ponies-verify "$PWD/Desktop Ponies 1.6.saver"
+/tmp/ponies-verify "$PWD/Desktop Ponies 1.7.saver"
 xcrun clang -fobjc-arc -O1 -framework Cocoa -framework ScreenSaver Source/SettingsVerify.m -o /tmp/ponies-settings-verify
-/tmp/ponies-settings-verify "$PWD/Desktop Ponies 1.6.saver"
+/tmp/ponies-settings-verify "$PWD/Desktop Ponies 1.7.saver"
 ```
 
 Additional edge and Rainbow Dash regression checks are in `Source/EdgeVerify.m` and `Source/RainbowVerify.m`. Compile them with Cocoa and ScreenSaver frameworks. Native validation covers picker behavior, all 1970 referenced assets, 2000 behavior transitions, full-size and thumbnail rendering, edge stability, and cross-process settings reloads. Intel compilation is verified; native runtime checks were performed on Apple Silicon.
@@ -43,7 +51,7 @@ Additional edge and Rainbow Dash regression checks are in `Source/EdgeVerify.m` 
 The installer supports a test-only command that copies into a disposable directory without changing your actual installation:
 
 ```sh
-'Install Desktop Ponies 1.6.app/Contents/MacOS/Installer' --test-install 'Desktop Ponies 1.6.saver' /tmp/ponies-install-test
+'Install Desktop Ponies 1.7.app/Contents/MacOS/Installer' --test-install 'Desktop Ponies 1.7.saver' /tmp/ponies-install-test
 ```
 
 ## Scope and credits
